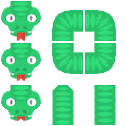
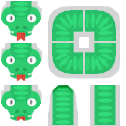
Added snake shadow in sprite and fixed turn cover outside the screen.

diff --git a/src/objects/snake.py b/src/objects/snake.py
@@ -197,9 +197,10 @@ class Snake:
                 existing = [c for c in self.covers if c.rect == cover_rect]
                 # If future_bounds is not found in current covers, create one
                 if not existing:
-                    bg_cover = self.bg.subsurface(cover_rect)
+                    bg_rect = cover_rect.clamp(self.bg.get_rect())
+                    bg_cover = self.bg.subsurface(bg_rect)
                     turn_cover = get_cover(first, second)
-                    snake_cover = SnakeCover(cover_rect, bg_cover, turn_cover)
+                    snake_cover = SnakeCover(cover_rect, turn_cover, bg_cover)
                     self.covers.append(snake_cover)
                 else:
                     # If it exists, reset the delay counter
@@ -339,7 +340,7 @@ class SnakePart(Sprite):
 
 class SnakeCover:
 
-    def __init__(self, cover_rect, bg_cover, turn_cover):
+    def __init__(self, cover_rect, turn_cover, bg_cover=None):
         """
         Initializes a SnakeCover object to cover the turning snake parts.
         It has a delay counter that determines the lifetime of the cover.
@@ -351,7 +352,8 @@ class SnakeCover:
 
     def draw(self, screen):
         """ Draw first the bg_cover then next is the turn_cover. """
-        screen.blit(self._bg_cover, self.rect)
+        if self._bg_cover:
+            screen.blit(self._bg_cover, self.rect)
         screen.blit(self._turn_cover, self.rect)
 
     def update(self, time_delta):

diff --git a/README.md b/README.md
@@ -99,6 +99,8 @@ If you have any questions or issues, please feel free to [open an issue](https:/
 - April 18, 2024
   - Implementation of the Snake Sprite with the correct turn covers.
   - Added snake head animation and updated stretch computation.
+- April 20, 2024
+  - Added snake shadow in sprite and fixed turn cover outside the screen.
 
 <br>
 <b>This project is currently under development.</b>
